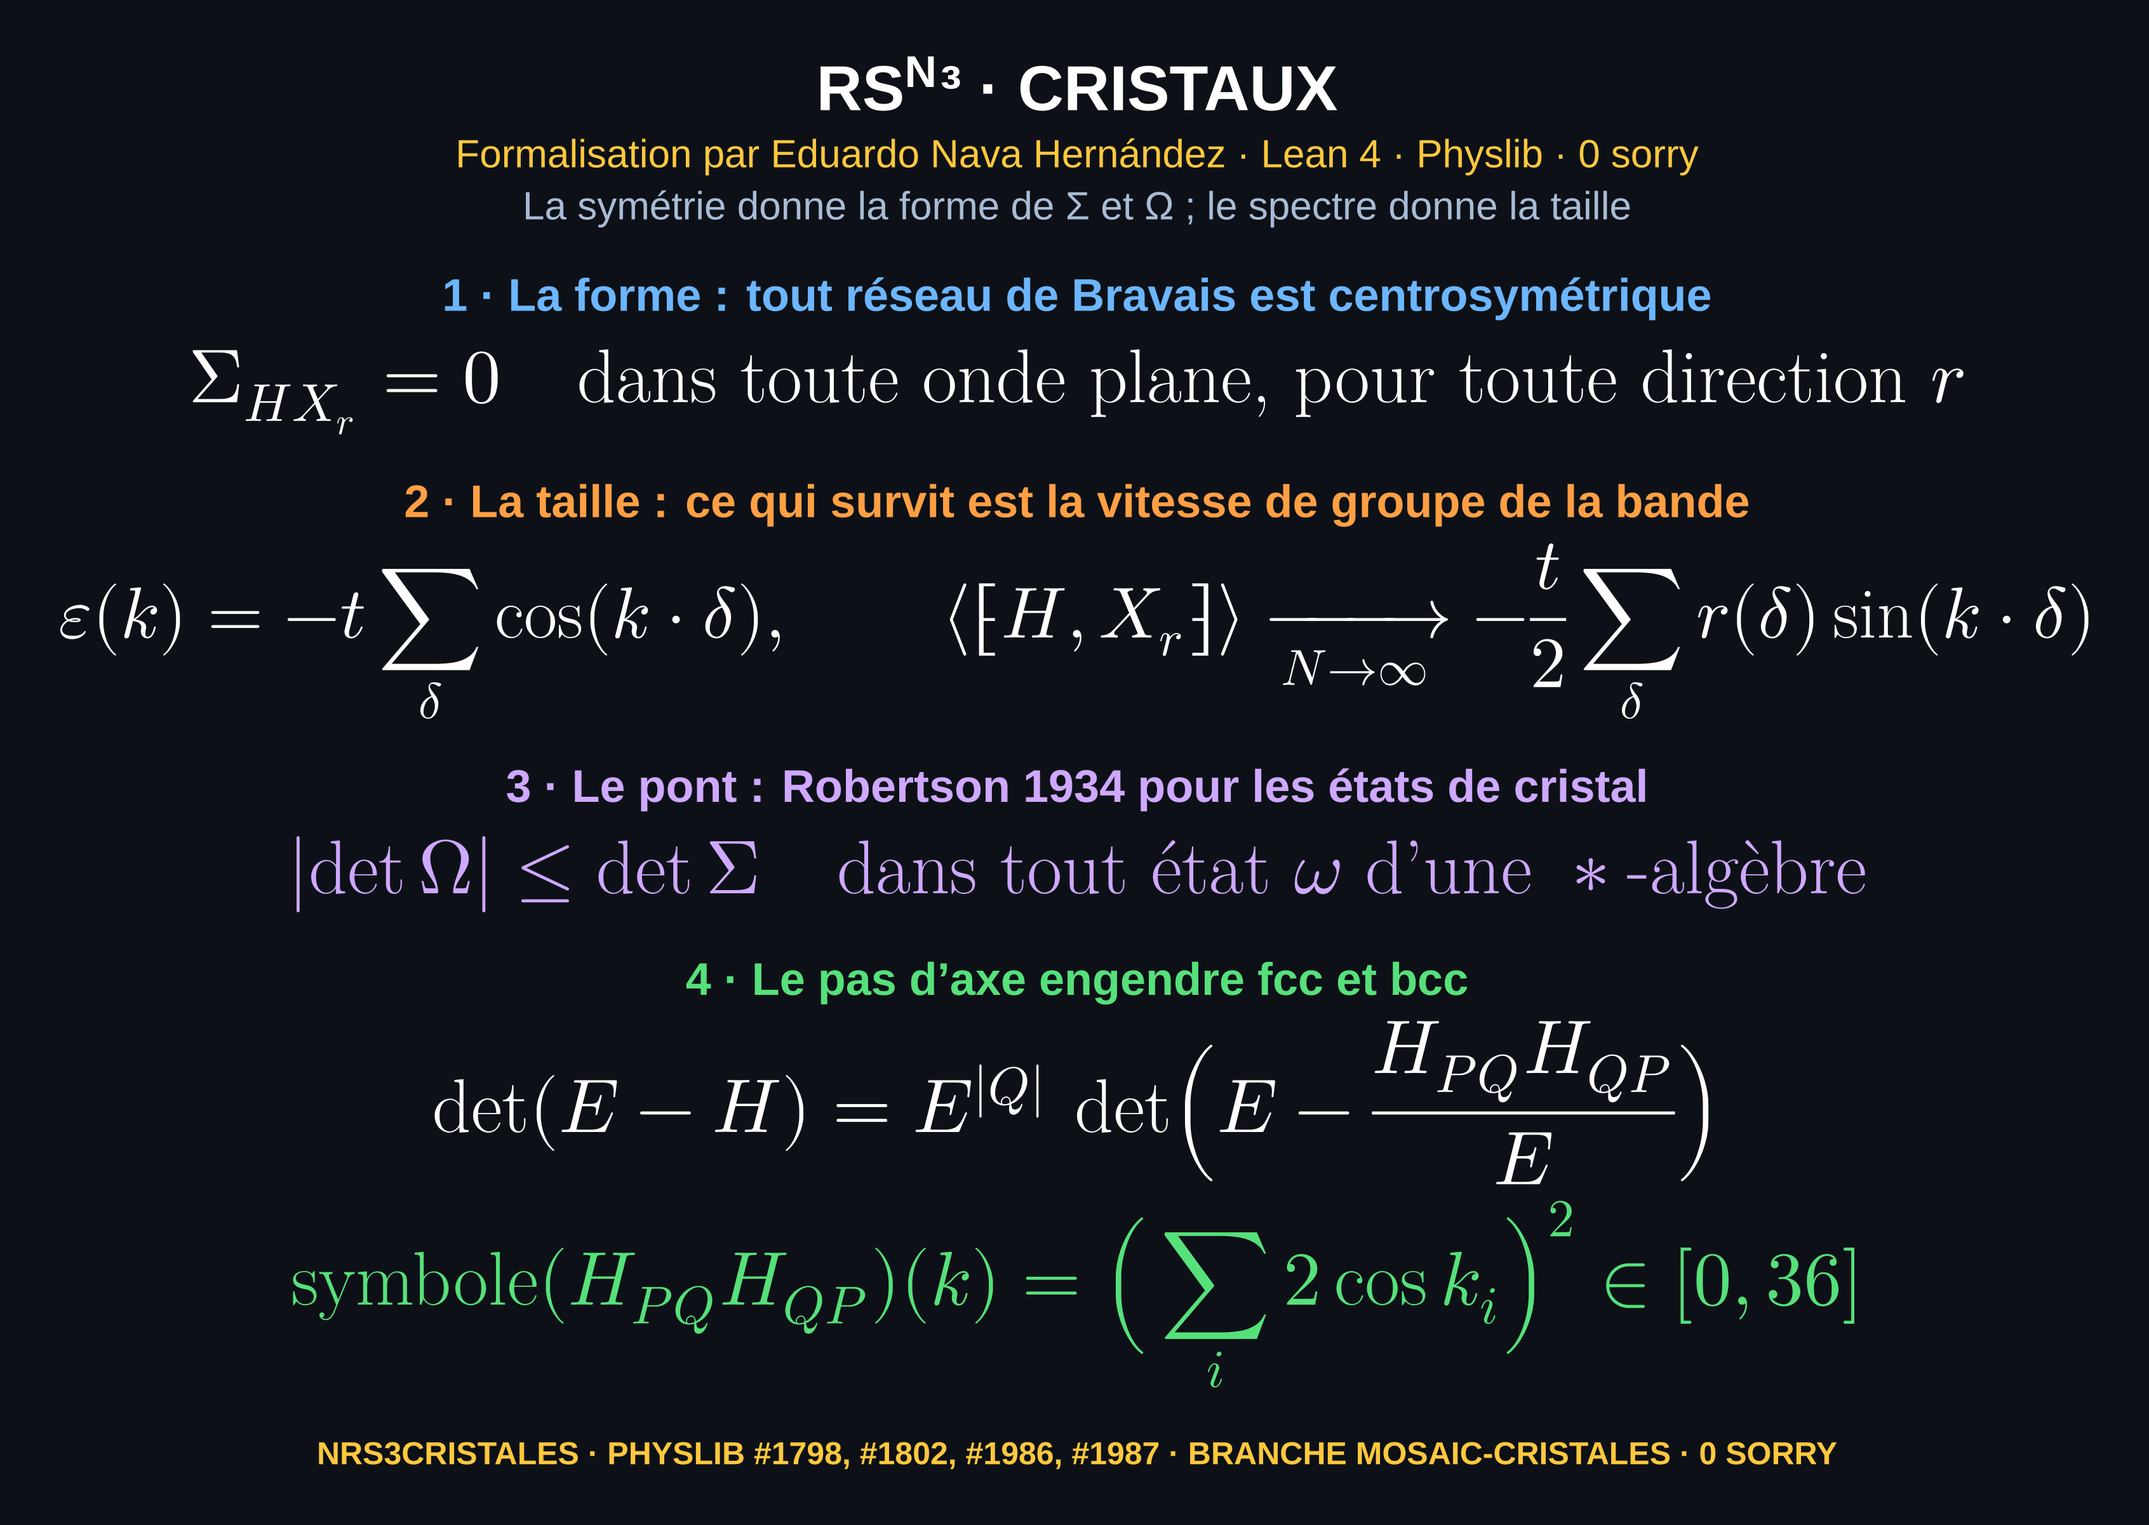
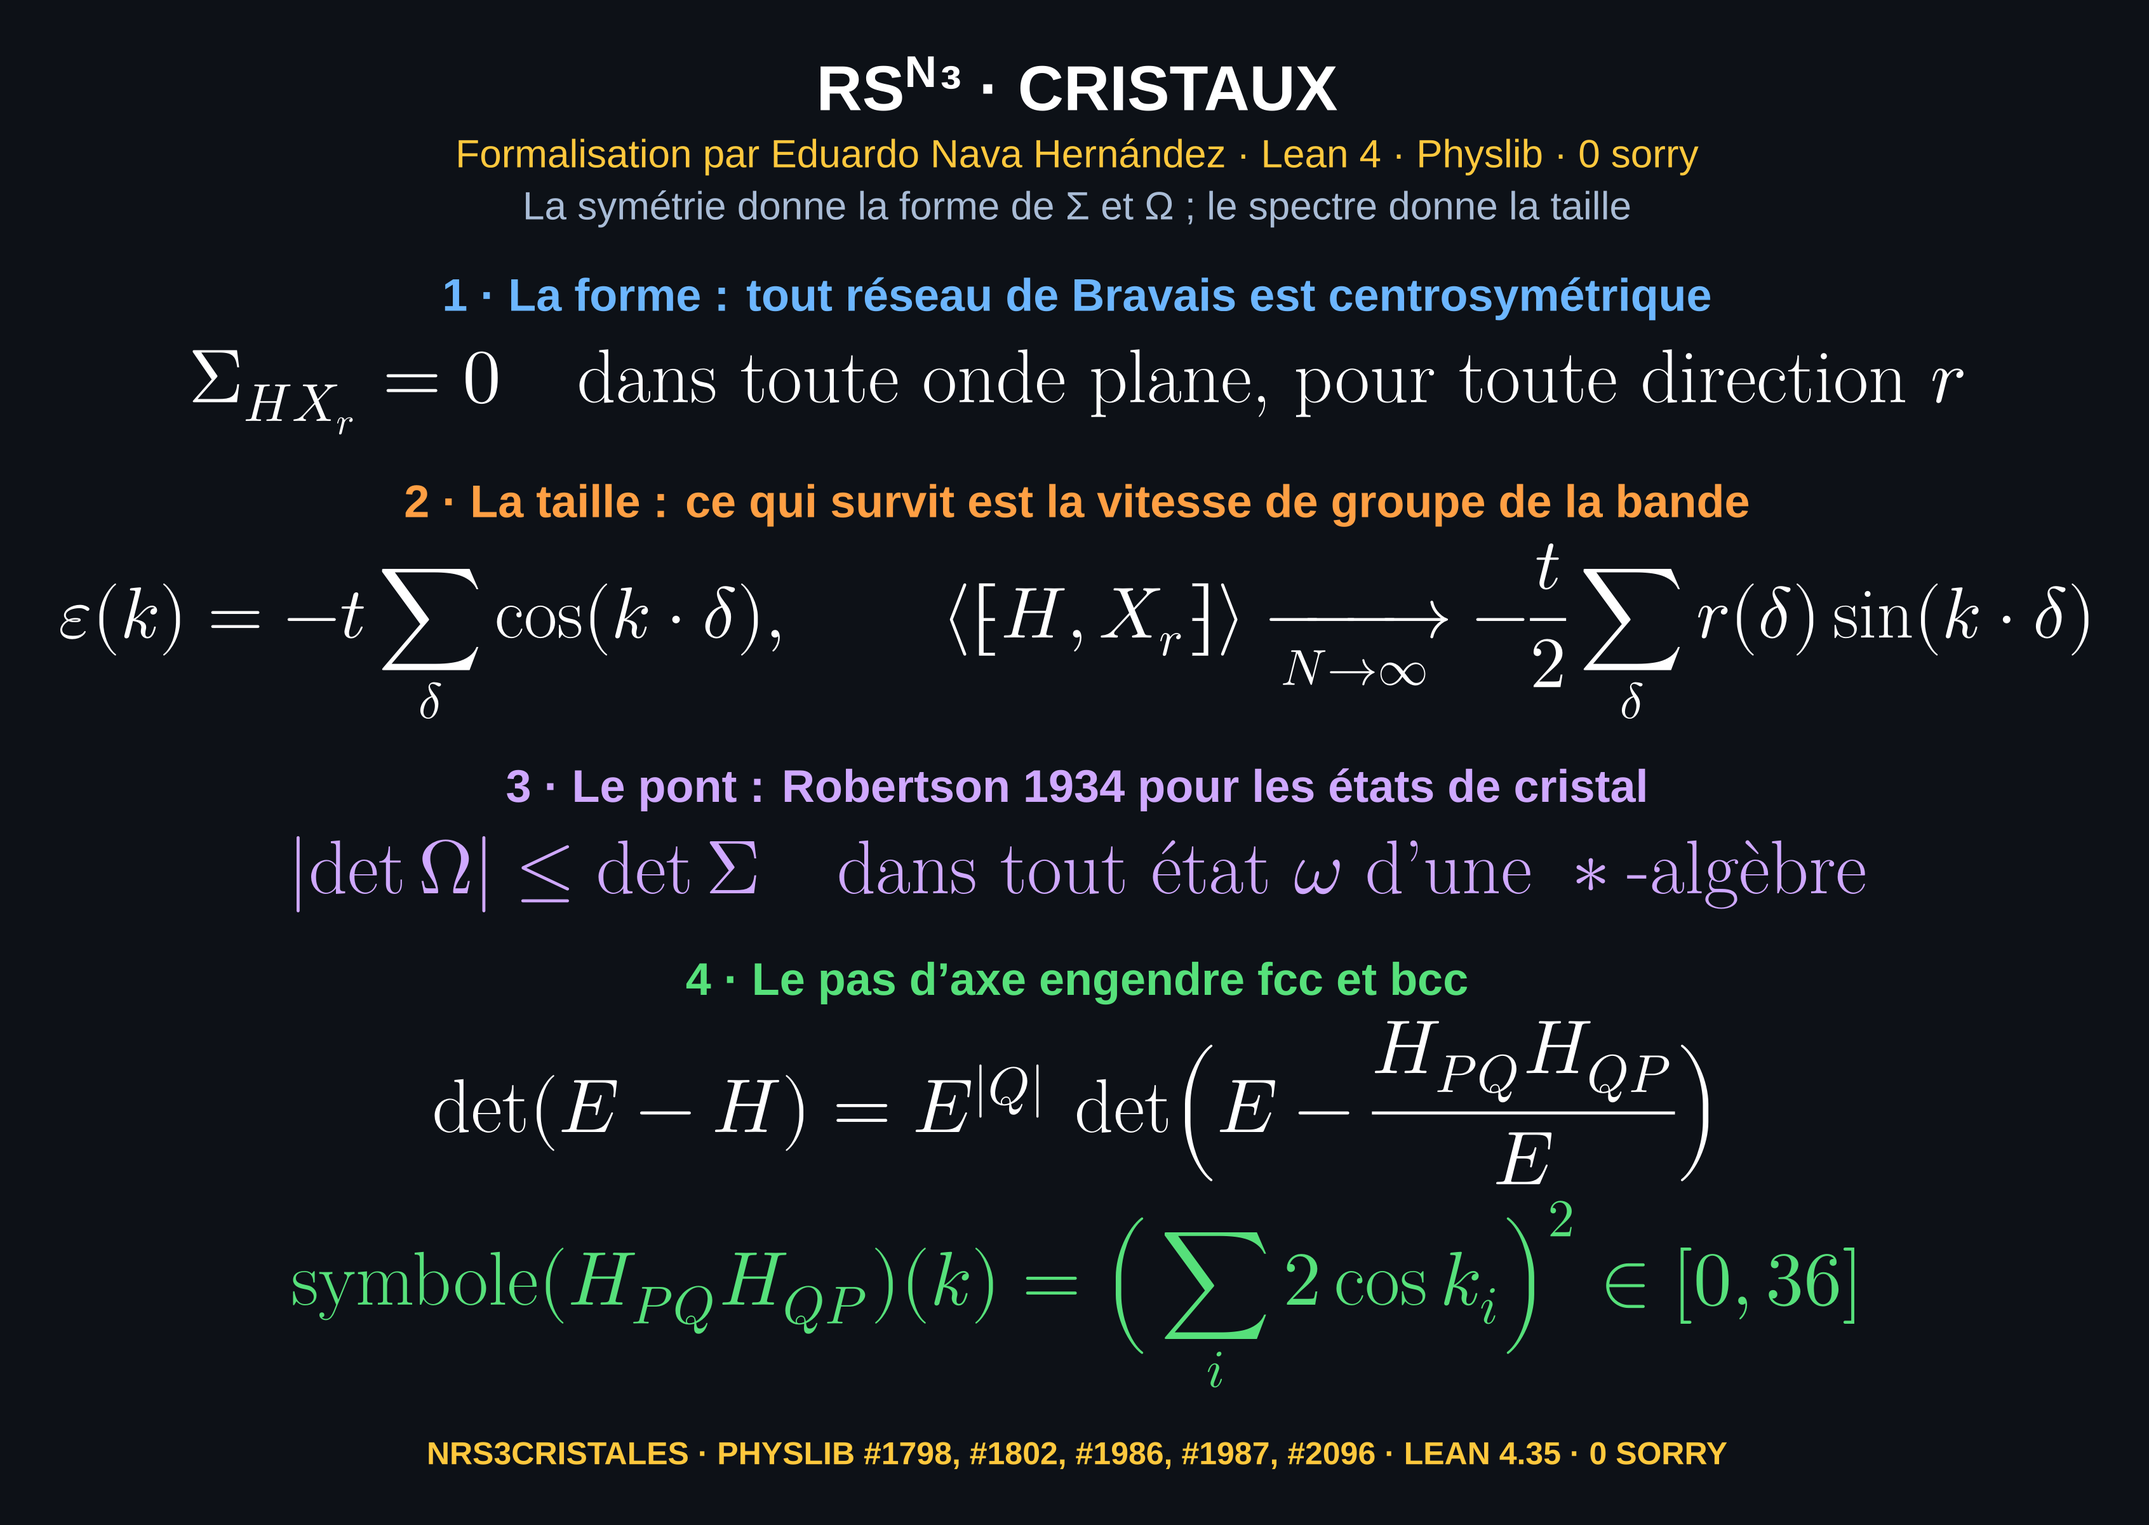
build: Physlib cristales-435 (cede8e00, Lean 4.35); docs(readme): étape 7 avec le graphe de Cayley et le cube de Mathlib
lakefile fixe la branche cristales-435 du fork (master de Physlib + mosaic-cristales).
README : Lean 4.35, 3306 tâches ; étape 7 (Cayley, pathGraph □ pathGraph □ pathGraph,
parité, Schur exact, A²), #2096 dans la table ; plaques 7, maîtresse et échelle.
lake build OK, 67 déclarations, axiomes standard ; compuerta verificar_readme OK.

Changed region(s): [[0.1551, 0.9367, 0.8688, 0.9679]]

diff --git a/README.md b/README.md
@@ -6,7 +6,7 @@
 **Eduardo Nava Hernández**  
 *Vérification formelle en Lean 4 · 0 sorry · Physlib (PhyslibAlpha)*
 
-[![Lean 4](https://img.shields.io/badge/Lean_4-v4.34.1-blue.svg?style=flat-square)](https://leanprover.github.io/)
+[![Lean 4](https://img.shields.io/badge/Lean_4-v4.35.0-blue.svg?style=flat-square)](https://leanprover.github.io/)
 [![Mathlib](https://img.shields.io/badge/Mathlib-v%C3%A9rifi%C3%A9-2ea44f.svg?style=flat-square)](https://github.com/leanprover-community/mathlib4)
 [![Kernel Status](https://img.shields.io/badge/Kernel-0%20sorry-brightgreen.svg?style=flat-square)]()
 [![Physlib](https://img.shields.io/badge/Physlib-PRs%20fusionn%C3%A9es-7c5cd6.svg?style=flat-square)](https://github.com/leanprover-community/physlib/pulls?q=is%3Apr+is%3Amerged+author%3Anaype888-cloud)
@@ -40,7 +40,7 @@
 
 ## ⚡ Résumé formel
 
-Le dépôt a sept fichiers Lean, tous dans [NRS3Cristales/](NRS3Cristales) ; ils compilent avec `lake build` (3240 tâches) et [`Verification/Axioms.lean`](Verification/Axioms.lean) imprime pour chaque résultat les seuls axiomes `propext`, `Classical.choice`, `Quot.sound`.
+Le dépôt a sept fichiers Lean, tous dans [NRS3Cristales/](NRS3Cristales) ; ils compilent avec `lake build` (3306 tâches) et [`Verification/Axioms.lean`](Verification/Axioms.lean) imprime pour chaque résultat les seuls axiomes `propext`, `Classical.choice`, `Quot.sound`.
 
 * [`Resumen.lean`](NRS3Cristales/Resumen.lean) ré-énonce, avec un `example` chacun, les lemmes de la bibliothèque utilisés : il ne compile que si les lemmes disent exactement cela.
 * [`Diagonal.lean`](NRS3Cristales/Diagonal.lean) : le petit groupe sur la diagonale du réseau carré (`omega_diagonal`).
@@ -49,7 +49,7 @@ Le dépôt a sept fichiers Lean, tous dans [NRS3Cristales/](NRS3Cristales) ; ils
 * [`SchurCubo.lean`](NRS3Cristales/SchurCubo.lean) : la partie fcc de l’état de courant maximal ne porte pas de tension.
 * [`FccRefinado.lean`](NRS3Cristales/FccRefinado.lean) : la bande fcc raffinée est le carré de la bande cubique.
 
-Les lemmes de bibliothèque viennent de Physlib : les groupes ponctuels, Robertson dans une \*-algèbre et le cube sont fusionnés dans `leanprover-community/physlib` ; l’inversion, la vitesse de groupe et le petit groupe sont dans la branche [`mosaic-cristales`](https://github.com/naype888-cloud/physlib/tree/mosaic-cristales) du fork, au commit `6aa4163f` fixé par lakefile.toml.
+Les lemmes de bibliothèque viennent de Physlib : les groupes ponctuels, Robertson dans une \*-algèbre et le cube sont fusionnés dans `leanprover-community/physlib` ; l’inversion, la vitesse de groupe et le petit groupe sont dans la branche [`cristales-435`](https://github.com/naype888-cloud/physlib/tree/cristales-435) du fork (`master` de Physlib plus `mosaic-cristales`, Lean 4.35), au commit `cede8e00` fixé par lakefile.toml. Le graphe de Cayley, les chemins et le produit cartésien de graphes viennent de Mathlib.
 
 ---
 
@@ -80,7 +80,7 @@ Les lemmes de bibliothèque viennent de Physlib : les groupes ponctuels, Roberts
 <div align="center"><img src="assets/plaque_cr_etape2.png" alt="L’inversion est une symétrie ; f H f = H, f X f = −X ; covariance nulle de H et X dans toute onde plane" width="860"></div>
 
 *Module formel :* [`NRS3Cristales/Resumen.lean`](NRS3Cristales/Resumen.lean), section 2.  
-*Lemmes :* `PeriodicGraph.inversion_mem_symmetries`, `inversionReversal_hopping`, `inversionReversal_position`, `covariance_hopping_position_unitPlaneWave` ([Crystal/Inversion](https://github.com/naype888-cloud/physlib/blob/6aa4163ffeecfdad676085cdb52a5d89e11573f4/PhyslibAlpha/CondensedMatter/Crystal/Inversion.lean), branche `mosaic-cristales`).
+*Lemmes :* `PeriodicGraph.inversion_mem_symmetries`, `inversionReversal_hopping`, `inversionReversal_position`, `covariance_hopping_position_unitPlaneWave` ([Crystal/Inversion](https://github.com/naype888-cloud/physlib/blob/cede8e0093b13ea8ec2e8bdeb3984dc275ce0731/PhyslibAlpha/CondensedMatter/Crystal/Inversion.lean), branche `cristales-435`).
 
 ---
 
@@ -91,7 +91,7 @@ Les lemmes de bibliothèque viennent de Physlib : les groupes ponctuels, Roberts
 <div align="center"><img src="assets/plaque_cr_etape3.png" alt="Petit groupe : covariance et crochet nuls dans les directions renversées ; crochet nul si chi(−n) = chi(n) ; égalité des crochets en x et y sur la diagonale du carré" width="860"></div>
 
 *Module formel :* [`NRS3Cristales/Diagonal.lean`](NRS3Cristales/Diagonal.lean) (`omega_diagonal`, `intercambio`, `intercambioSim`, `intercambio_mem_box`).  
-*Lemmes :* `covariance_hopping_position_littleGroup`, `expectation_bracket_hopping_position_littleGroup`, `expectation_bracket_hopping_position_of_neg`, `expectation_bracket_hopping_position_comp_littleGroup` ([Crystal/LittleGroup](https://github.com/naype888-cloud/physlib/blob/6aa4163ffeecfdad676085cdb52a5d89e11573f4/PhyslibAlpha/CondensedMatter/Crystal/LittleGroup.lean), branche `mosaic-cristales`), ré-énoncés dans `Resumen.lean`, section 6.
+*Lemmes :* `covariance_hopping_position_littleGroup`, `expectation_bracket_hopping_position_littleGroup`, `expectation_bracket_hopping_position_of_neg`, `expectation_bracket_hopping_position_comp_littleGroup` ([Crystal/LittleGroup](https://github.com/naype888-cloud/physlib/blob/cede8e0093b13ea8ec2e8bdeb3984dc275ce0731/PhyslibAlpha/CondensedMatter/Crystal/LittleGroup.lean), branche `cristales-435`), ré-énoncés dans `Resumen.lean`, section 6.
 
 ---
 
@@ -102,7 +102,7 @@ Les lemmes de bibliothèque viennent de Physlib : les groupes ponctuels, Roberts
 <div align="center"><img src="assets/plaque_cr_etape4.png" alt="Le crochet comme somme sur les liaisons, la bande et sa dérivée, et la limite sur les grandes boîtes" width="860"></div>
 
 *Module formel :* [`NRS3Cristales/Resumen.lean`](NRS3Cristales/Resumen.lean), section 3.  
-*Lemmes :* `expectation_bracket_unitPlaneWave`, `hasDerivAt_band`, `tendsto_expectation_bracket_box` ([Crystal/GroupVelocity](https://github.com/naype888-cloud/physlib/blob/6aa4163ffeecfdad676085cdb52a5d89e11573f4/PhyslibAlpha/CondensedMatter/Crystal/GroupVelocity.lean), branche `mosaic-cristales`). La limite utilise la propriété de Følner des boîtes.
+*Lemmes :* `expectation_bracket_unitPlaneWave`, `hasDerivAt_band`, `tendsto_expectation_bracket_box` ([Crystal/GroupVelocity](https://github.com/naype888-cloud/physlib/blob/cede8e0093b13ea8ec2e8bdeb3984dc275ce0731/PhyslibAlpha/CondensedMatter/Crystal/GroupVelocity.lean), branche `cristales-435`). La limite utilise la propriété de Følner des boîtes.
 
 ---
 
@@ -131,12 +131,13 @@ Les lemmes de bibliothèque viennent de Physlib : les groupes ponctuels, Roberts
 
 ### Étape 7 : Le complément de Schur — fcc et bcc sont des mots de pas d’axe
 
-> **Proposition 7.1 (Schur exact pour fcc).** On sépare les positions en P et Q et le pas d’axe en blocs. Si H_PP = H_QQ = 0, alors det(E − H) = E^|Q| det(E − H_PQ H_QP / E), et Hψ = Eψ si et seulement si ψ_Q = H_QP ψ_P / E et H_PQ H_QP ψ_P = E² ψ_P. Pour fcc (P = somme des coordonnées paire) le pas d’axe change la parité, donc H_PP = H_QQ = 0. Les entrées de H_PQ H_QP comptent les mots de deux pas d’axe : 6 de retour, 2 vers chaque ±eᵢ ± eⱼ, 1 vers chaque ±2eᵢ, et rien d’autre : 6 + 12·2 + 6·1 = 36. Pour bcc, la diagonale de corps (1, 1, 1) n’est atteinte par aucun mot de deux pas et par 6 mots de trois pas. La boîte 3³ contient la maille fcc (14 positions) et la maille bcc (9) ; la boîte 4³, 32 et 16.
+> **Proposition 7.1 (Schur exact sur le cube ouvert).** ℤ³ est le graphe de Cayley (addCayley, la version additive de `SimpleGraph.mulCayley` de Mathlib) des six pas d’axe `axisStep` de Physlib : les voisins d’axe sont ses voisins. Le cube ouvert est le produit cartésien de trois chemins de Mathlib, P_Nx □ P_Ny □ P_Nz ; sur chaque axe c’est le saut de la chaîne ouverte (#2096), et ses arêtes sont celles du graphe de Cayley vues dans la boîte. Chaque arête change la parité de x + y + z, donc, avec P les positions paires et Q les impaires, H_PP = H_QQ = 0 est un théorème du cube ouvert, et le complément de Schur est exact avec sa matrice d’adjacence A ; H_PQ H_QP est A² sur les positions paires, c’est-à-dire le nombre de chemins de longueur 2. En général, on sépare les positions en P et Q et le pas d’axe en blocs. Si H_PP = H_QQ = 0, alors det(E − H) = E^|Q| det(E − H_PQ H_QP / E), et Hψ = Eψ si et seulement si ψ_Q = H_QP ψ_P / E et H_PQ H_QP ψ_P = E² ψ_P. Pour fcc (P = somme des coordonnées paire) le pas d’axe change la parité, donc H_PP = H_QQ = 0. Les entrées de H_PQ H_QP comptent les mots de deux pas d’axe : 6 de retour, 2 vers chaque ±eᵢ ± eⱼ, 1 vers chaque ±2eᵢ, et rien d’autre : 6 + 12·2 + 6·1 = 36. Pour bcc, la diagonale de corps (1, 1, 1) n’est atteinte par aucun mot de deux pas et par 6 mots de trois pas. La boîte 3³ contient la maille fcc (14 positions) et la maille bcc (9) ; la boîte 4³, 32 et 16.
 
 <div align="center"><img src="assets/plaque_cr_etape7.png" alt="Complément de Schur bipartite, vecteurs propres par blocs, poids 6, 2, 1 de fcc, mots de bcc et positions des boîtes 3 et 4" width="860"></div>
 
-*Module formel :* [`NRS3Cristales/Schur.lean`](NRS3Cristales/Schur.lean) (`det_sub_bipartita`, `schur_bipartita`, `not_even_iff_of_mem_vecinos`, `palabras2_add`, `palabras2_regreso`, `palabras2_diagonalCara`, `palabras2_dobleEje`, `suma_palabras2`, `palabras2_cuerpo`, `palabras3_cuerpo`, `palabras2_adyacentes_Q`, `card_pares_caja_tres`, `card_igualParidad_caja_tres`, `card_pares_caja_cuatro`, `card_igualParidad_caja_cuatro`).  
-*Physlib :* le même énoncé de voisinage pour fcc et bcc est fusionné dans PR #1987 ; ce dépôt ne l’importe pas, il le recompte par `decide`.
+*Module formel :* [`NRS3Cristales/Schur.lean`](NRS3Cristales/Schur.lean) (`redCubica`, `mem_vecinos_iff_adj`, `palabras2_eq_card_fiber`, `palabras2_diagonalCara_fiber`, `det_sub_bipartita`, `schur_bipartita`, `not_even_iff_of_mem_vecinos`, `palabras2_add`, `palabras2_regreso`, `palabras2_diagonalCara`, `palabras2_dobleEje`, `suma_palabras2`, `palabras2_cuerpo`, `palabras3_cuerpo`, `palabras2_adyacentes_Q`, `card_pares_caja_tres`, `card_igualParidad_caja_tres`, `card_pares_caja_cuatro`, `card_igualParidad_caja_cuatro`).  
+*Module formel :* [`NRS3Cristales/SchurCubo.lean`](NRS3Cristales/SchurCubo.lean) (`cubo_adj_iff`, `paridad_cubo`, `adyacencia_particion`, `det_cubo_schur`, `dosPasos_eq`).  
+*Physlib :* PR #1987 (les pas d’axe `axisStep` et le poids 2, `card_twoStepWords_fiber`, importés ici), PR #2096 (la chaîne ouverte est le saut de `pathGraph`).
 
 ---
 
@@ -147,7 +148,7 @@ Les lemmes de bibliothèque viennent de Physlib : les groupes ponctuels, Roberts
 <div align="center"><img src="assets/plaque_cr_etape8.png" alt="Symbole des mots de deux pas égal au carré de la bande cubique, développement avec les poids 6, 8, 2, borne 0 à 36, comparaison avec le graphe à douze voisins, tension nulle de la partie fcc" width="860"></div>
 
 *Module formel :* [`NRS3Cristales/FccRefinado.lean`](NRS3Cristales/FccRefinado.lean) (`simbolo_vecinos`, `simbolo_dospasos`, `simbolo_palabras2`, `banda_fcc_refinada`, `banda_fcc_refinada_eq_pesos`, `banda_fcc_refinada_nonneg`, `banda_fcc_refinada_le`, `banda_fcc_refinada_zero`, `banda_truncada_negativa`).  
-*Module formel :* [`NRS3Cristales/SchurCubo.lean`](NRS3Cristales/SchurCubo.lean) (`val_maxCurrentState`, `val_maxCurrentCubeState`, `im_val_maxCurrentCubeState_of_even`, `tension_parteFCC_eq_zero`).  
+*Module formel :* [`NRS3Cristales/SchurCubo.lean`](NRS3Cristales/SchurCubo.lean) (`val_maxCurrentState`, `val_maxCurrentCubeState`, `im_val_maxCurrentCubeState_of_even`, `tension_parteFCC_eq_zero`, `tension_parteFCC_dosPasos`).  
 Sur le cube complet, le même état sature la relation de chaque axe à 2 ou 3 positions et est strict dès 4 : dans la boîte 3³ il sature, dans 4³ il rompt. La tension vit dans le pas d’axe P ↔ Q, pas dans la description effective par diagonales.
 
 ---
@@ -161,7 +162,8 @@ Sur le cube complet, le même état sature la relation de chaque axe à 2 ou 3 p
 | **#1802** | `Crystal/PointGroup/Orthorhombic` | Les quatre orthorhombiques : 8 | 1 |
 | **#1986** | `TightBindingChain/Cube/AxisCommutation` | Deux observables du cube commutent ⟺ axes différents | 6 |
 | **#1987** | `Crystal/Examples/AxisStepWords` | Les voisins de fcc et bcc sont des mots de pas d’axe | 7 |
-| branche `mosaic-cristales` | `Crystal/Inversion`, `LittleGroup`, `GroupVelocity` | Inversion, petit groupe, vitesse de groupe | 2, 3, 4 |
+| **#2096** | `TightBindingChain/Open/Basic` | La chaîne ouverte est le saut du graphe chemin de Mathlib | 7 |
+| branche `cristales-435` | `Crystal/Inversion`, `LittleGroup`, `GroupVelocity` | Inversion, petit groupe, vitesse de groupe | 2, 3, 4 |
 
 L’argument complet des liaisons, lemme par lemme, avec ce qui reste ouvert : [ENLACES.md](ENLACES.md).
 
@@ -176,7 +178,7 @@ node tools/check_core.js          # le modèle numérique du site contre les for
 node tools/gen_formal_tables.js   # régénère les tables de la note formelle depuis le même noyau
 ```
 
-lakefile.toml fixe Physlib au commit `6aa4163f` de [naype888-cloud/physlib](https://github.com/naype888-cloud/physlib/tree/mosaic-cristales). Tous les résultats ne dépendent que de :
+lakefile.toml fixe Physlib au commit `cede8e00` de [naype888-cloud/physlib](https://github.com/naype888-cloud/physlib/tree/cristales-435) (Lean 4.35). Tous les résultats ne dépendent que de :
 
 ```text
 [propext, Classical.choice, Quot.sound]
@@ -198,7 +200,7 @@ lakefile.toml fixe Physlib au commit `6aa4163f` de [naype888-cloud/physlib](http
 | **1934** | Robertson : le déterminant pour plusieurs observables | `AlgState.robertson_det` |
 | **1936** | Bouckaert, Smoluchowski et Wigner : le petit groupe de chaque k | `covariance_hopping_position_littleGroup` |
 
-**Antécédents et outils hors de la fenêtre.** Bravais (1848), Følner (1955), Lean 4, Mathlib et Physlib.
+**Antécédents et outils hors de la fenêtre.** Bravais (1848), Cayley (1878), Følner (1955), Lean 4, Mathlib et Physlib.
 
 ---
 
